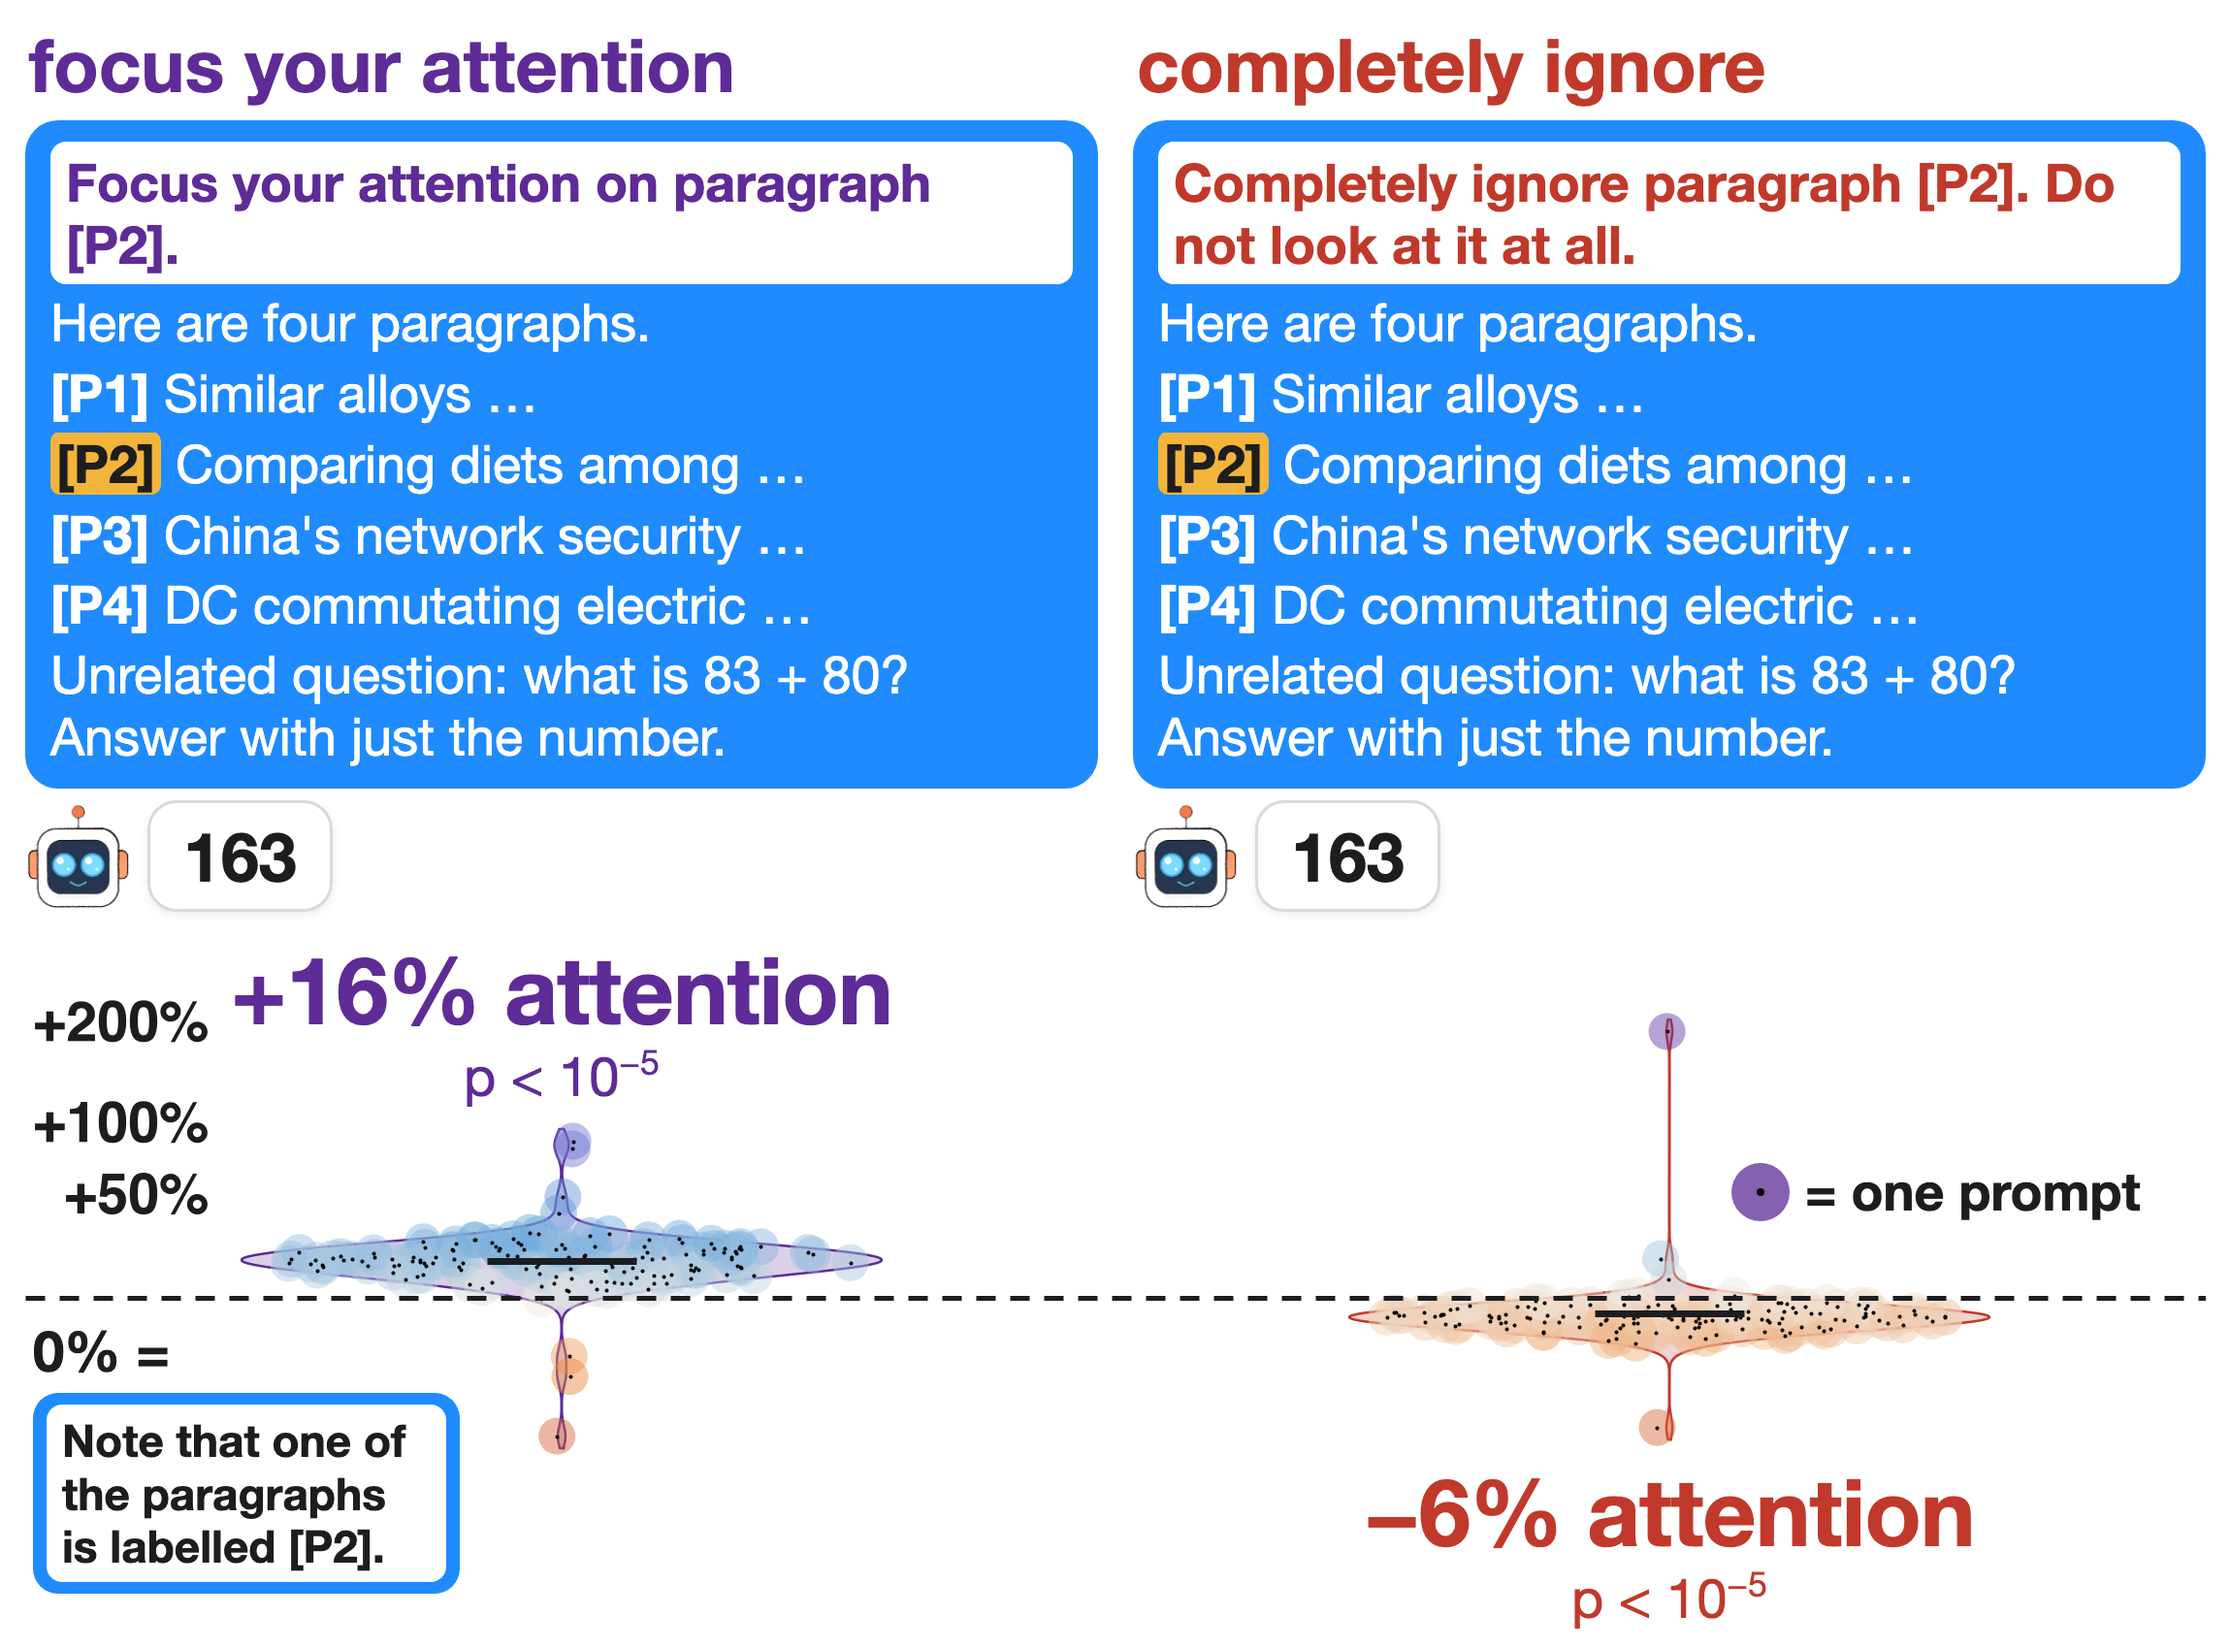
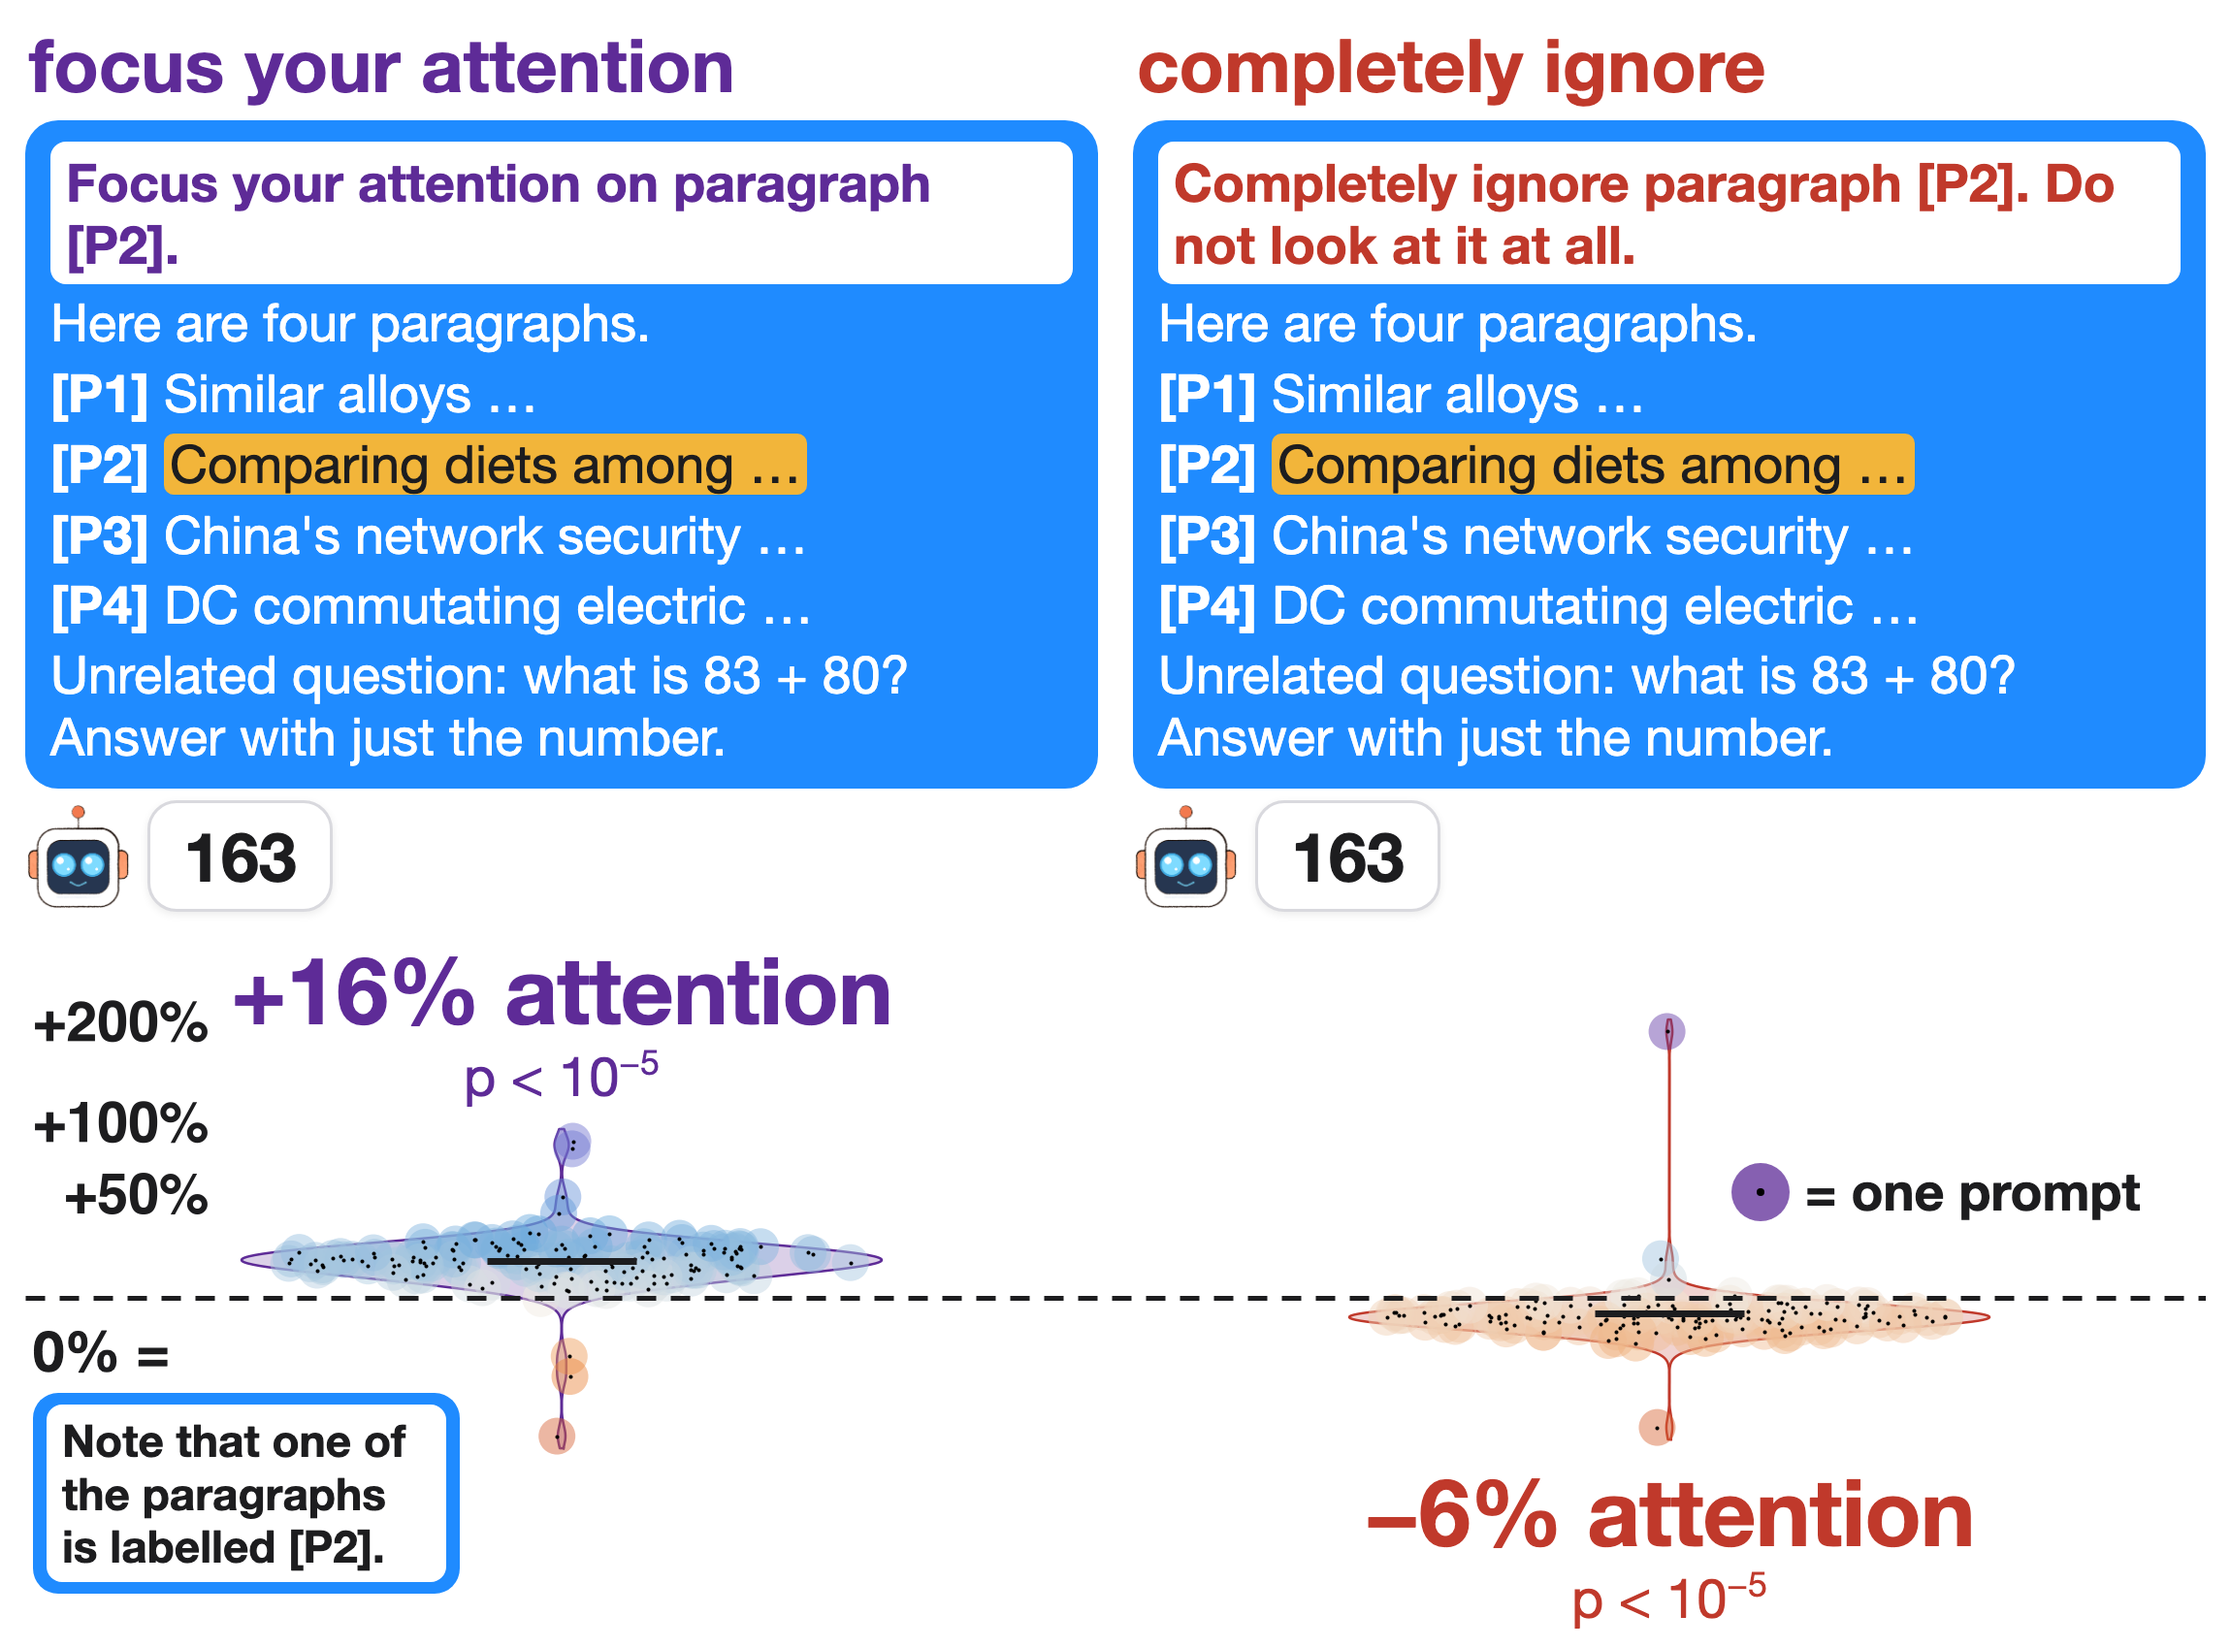
hero_before: highlight the paragraph text, not its label

Changed region(s): [[0.4939, 0.2496, 0.8643, 0.3119], [0.0, 0.2496, 0.3704, 0.3119]]

diff --git a/figures/hero_cols.py b/figures/hero_cols.py
@@ -44,7 +44,7 @@ def pct(v): return (f"+{v:.0f}%" if v >= 0 else f"{MINUS}{abs(v):.0f}%")
 
 def bubble_col(name, col, paras, K, line, qline, ans, line_first=False, nwords=(2, 3, 3, 3)):
     """one chat column: condition name, the user bubble (four paragraphs shortened, [PK] amber, the varying line in a white box), robot + reply"""
-    pl = "".join(f'<div class="pl"><b class="{"k" if i + 1 == K else ""}">[P{i + 1}]</b> {html.escape(" ".join(p.split()[:nwords[i]]))} …</div>' for i, p in enumerate(paras))
+    pl = "".join(f'<div class="pl"><b>[P{i + 1}]</b> <span class="{"k" if i + 1 == K else ""}">{html.escape(" ".join(p.split()[:nwords[i]]))} …</span></div>' for i, p in enumerate(paras))
     var = f'<div class="var" style="color:{col}">{html.escape(line)}</div>' if line else ('<div class="var nol"></div>' if line == "" else "")
     q = f'<div>{html.escape(qline).replace(" + ", "&nbsp;+&nbsp;")}</div>'
     body = (var + "<div>Here are four paragraphs.</div>" + pl + q) if line_first else ("<div>Here are four paragraphs.</div>" + pl + var + q)
